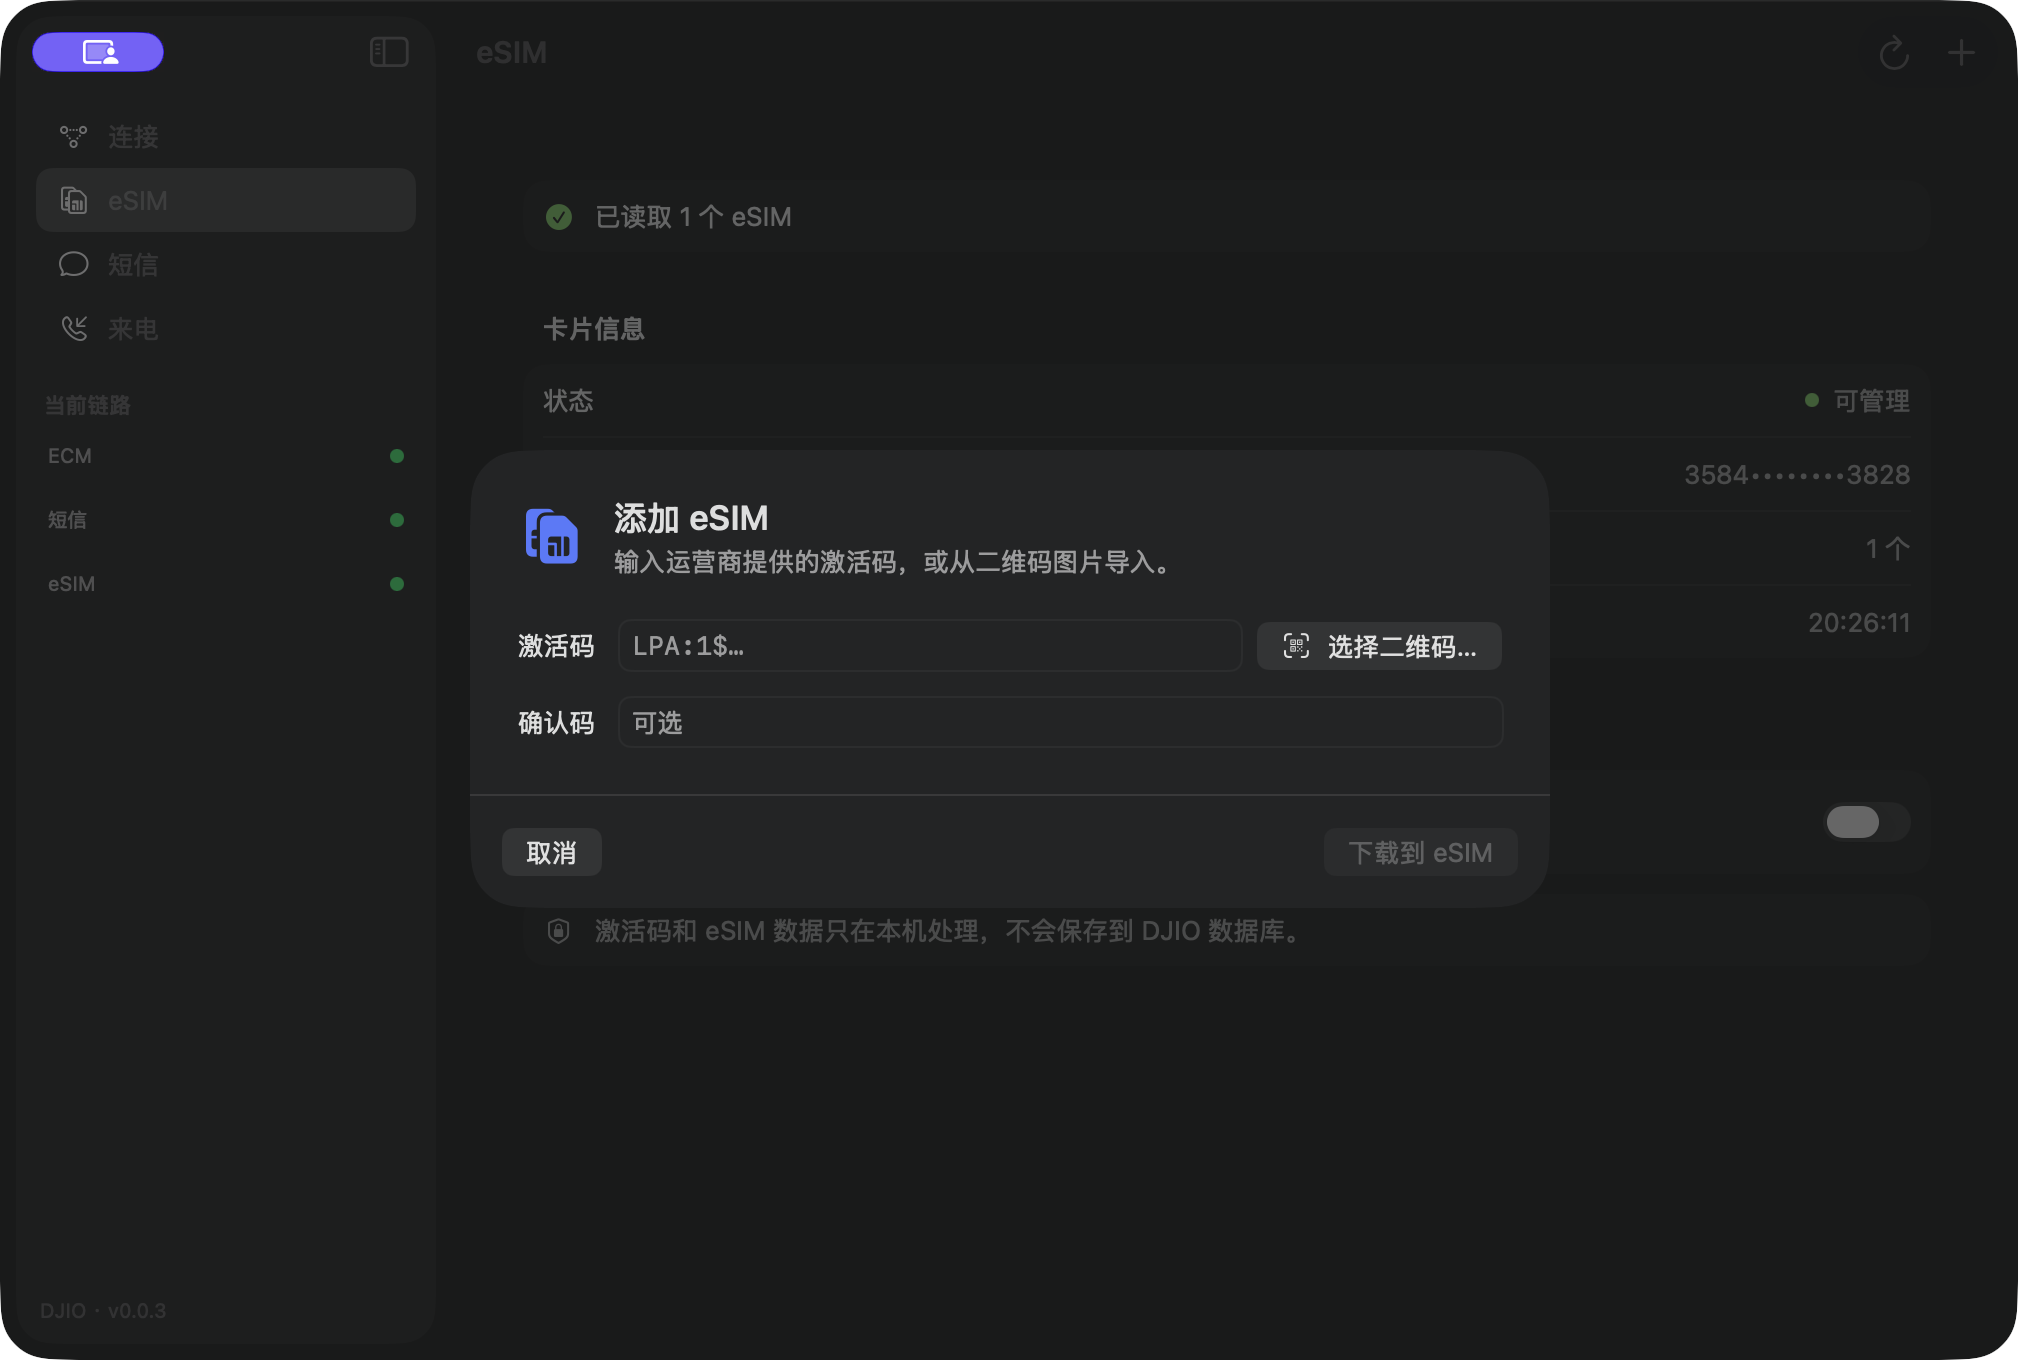
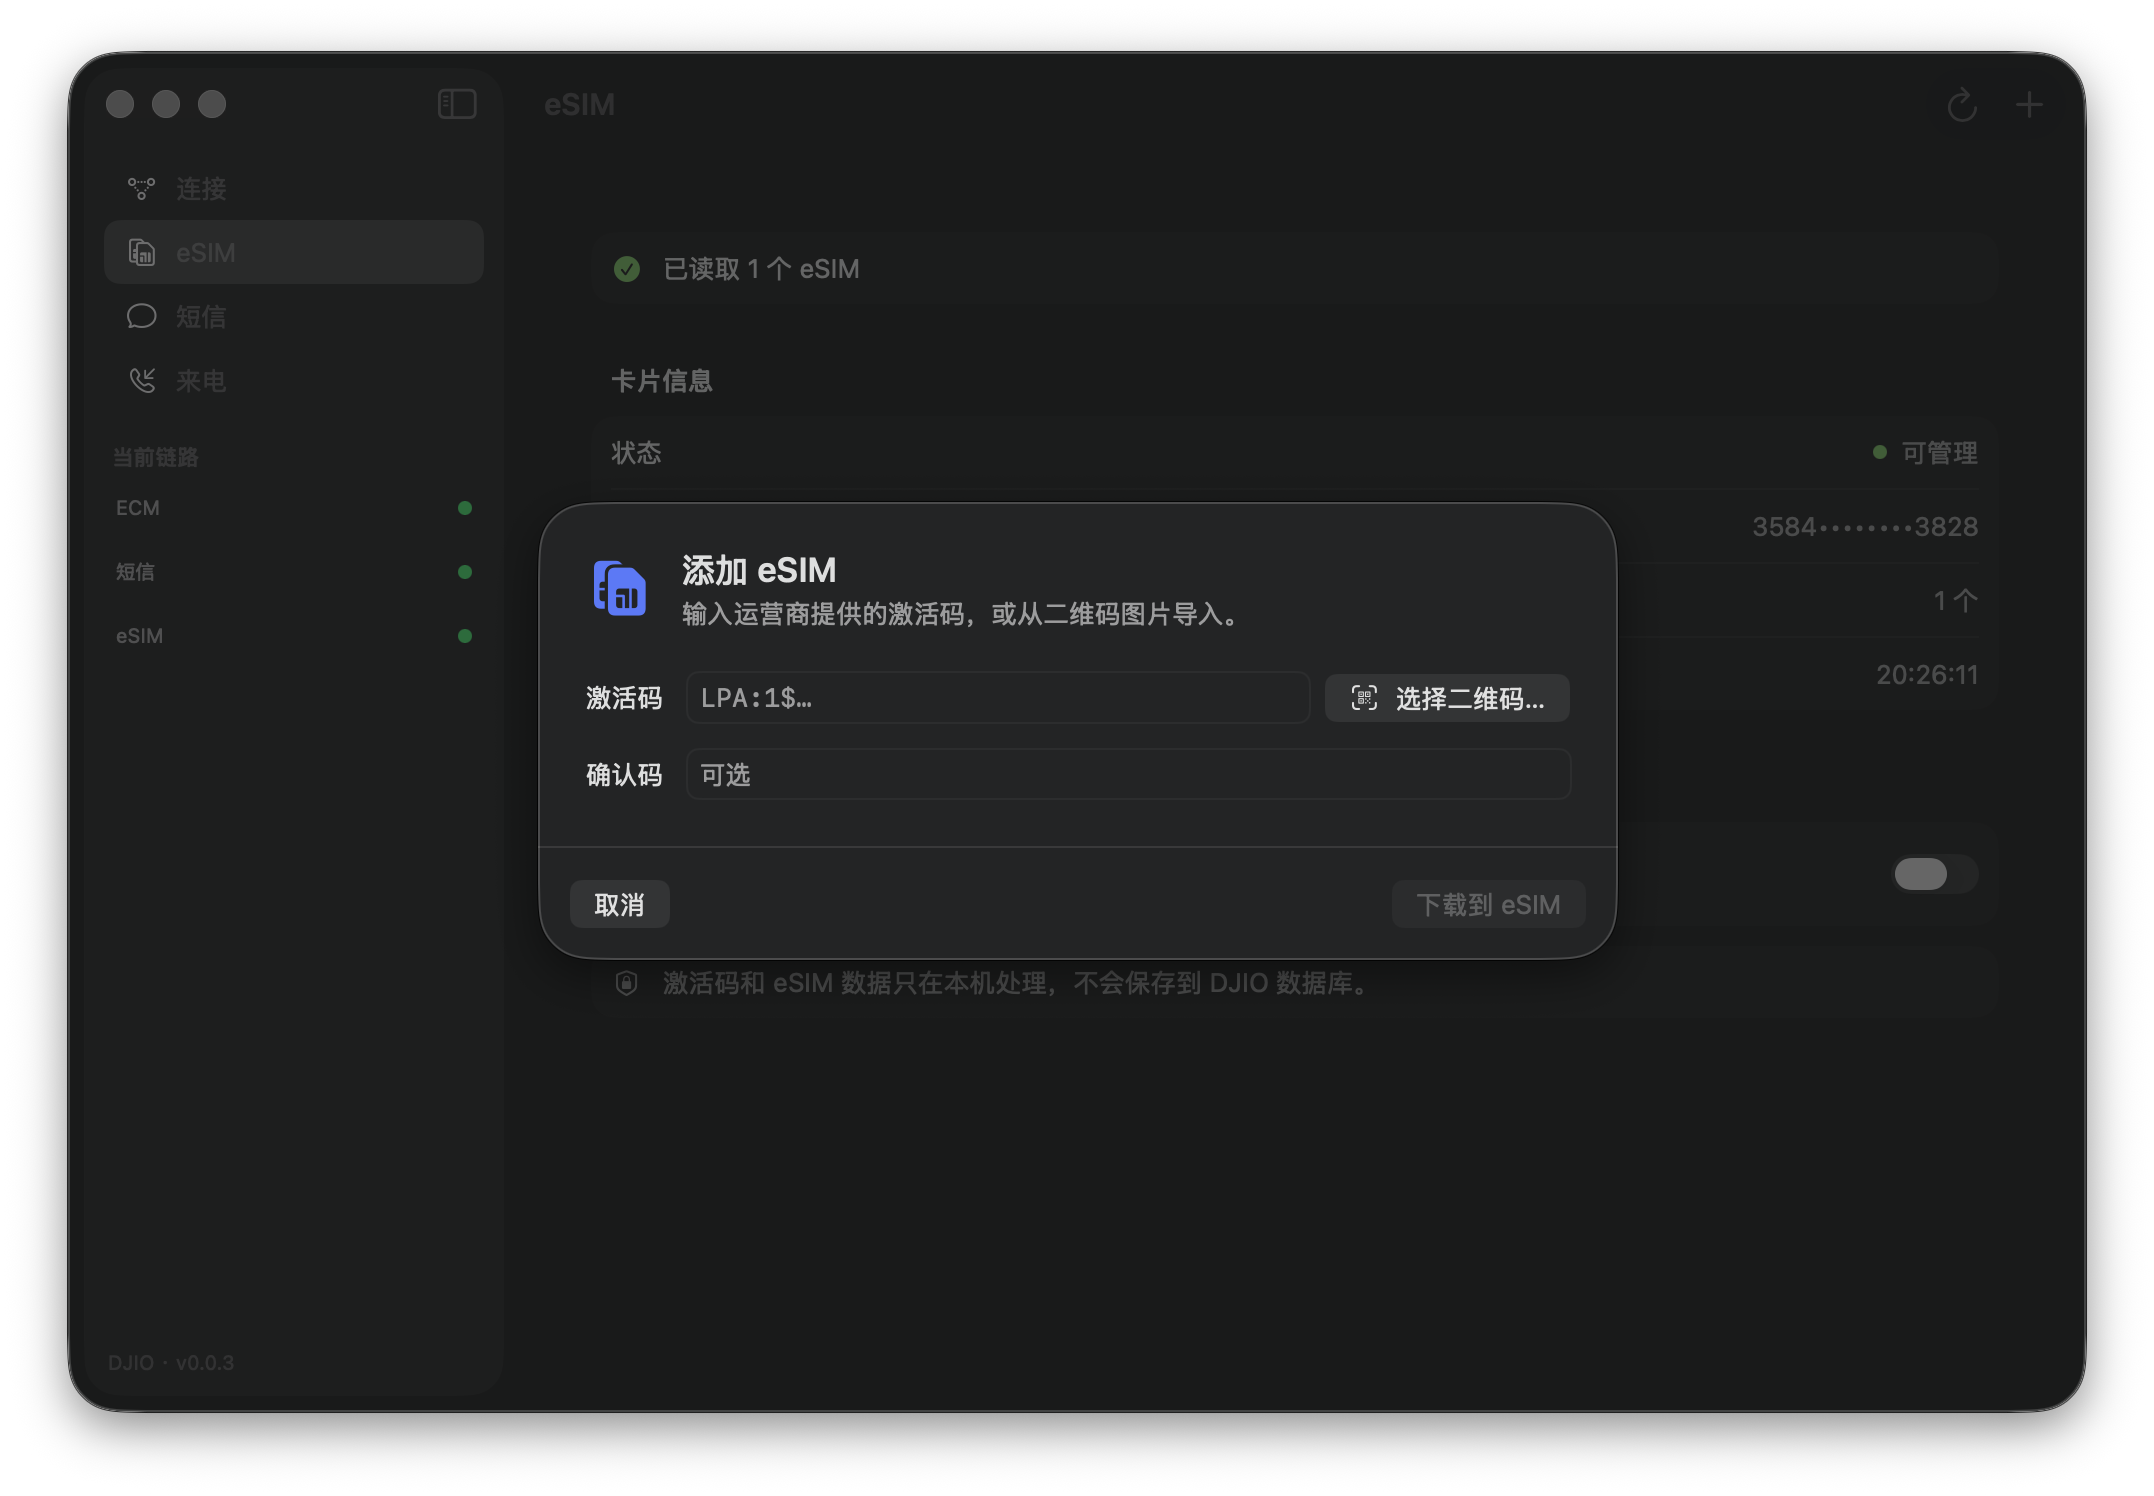
docs: 对齐 README 截图布局

diff --git a/README.md b/README.md
@@ -29,39 +29,33 @@ VoWiFi/IMS 通话。
 
 > 以下截图均使用内置演示数据，不包含真实短信、电话号码或网络信息。
 
-### 连接
-
-![DJIO 连接页面](docs/screenshots/connection.png)
-
-### eSIM
-
-![DJIO eSIM 管理页面](docs/screenshots/esim.png)
-
-<p>
-  <img src="docs/screenshots/add-esim-window.png" width="540" alt="DJIO 添加 eSIM 窗口">
-</p>
-
-### 短信
-
-![DJIO 短信页面](docs/screenshots/messages.png)
-
-### 来电
-
-![DJIO 来电记录页面](docs/screenshots/calls.png)
-
-### 定位
-
-![DJIO 定位页面](docs/screenshots/location.png)
+<div align="center">
+<table>
+  <tr>
+    <td width="50%"><img src="docs/screenshots/connection.png" alt="DJIO 连接页面"></td>
+    <td width="50%"><img src="docs/screenshots/esim.png" alt="DJIO eSIM 管理页面"></td>
+  </tr>
+  <tr>
+    <td width="50%"><img src="docs/screenshots/add-esim-window.png" alt="DJIO 添加 eSIM 窗口"></td>
+    <td width="50%"><img src="docs/screenshots/messages.png" alt="DJIO 短信页面"></td>
+  </tr>
+  <tr>
+    <td width="50%"><img src="docs/screenshots/calls.png" alt="DJIO 来电记录页面"></td>
+    <td width="50%"><img src="docs/screenshots/location.png" alt="DJIO 定位页面"></td>
+  </tr>
+</table>
+</div>
 
 ### 通知
 
-<p>
-  <img src="docs/screenshots/sms-notification.png" width="520" alt="DJIO 短信通知">
-</p>
-
-<p>
-  <img src="docs/screenshots/incoming-call-notification.png" width="520" alt="DJIO 来电通知">
-</p>
+<div align="center">
+<table>
+  <tr>
+    <td width="50%"><img src="docs/screenshots/sms-notification.png" alt="DJIO 短信通知"></td>
+    <td width="50%"><img src="docs/screenshots/incoming-call-notification.png" alt="DJIO 来电通知"></td>
+  </tr>
+</table>
+</div>
 
 来电浮窗中的绿色按钮用于打开 DJIO 的来电页面，不表示接听电话。DJIO 不传输
 通话音频，也不提供接听功能。
